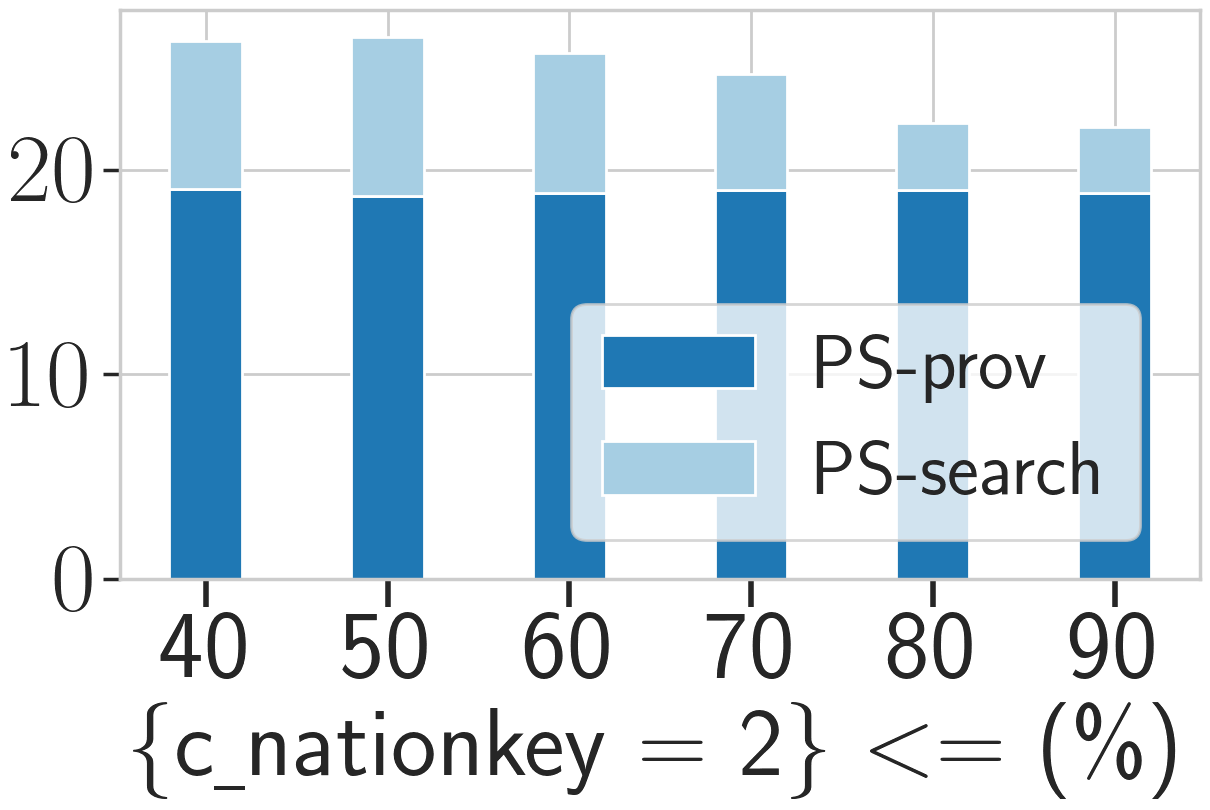
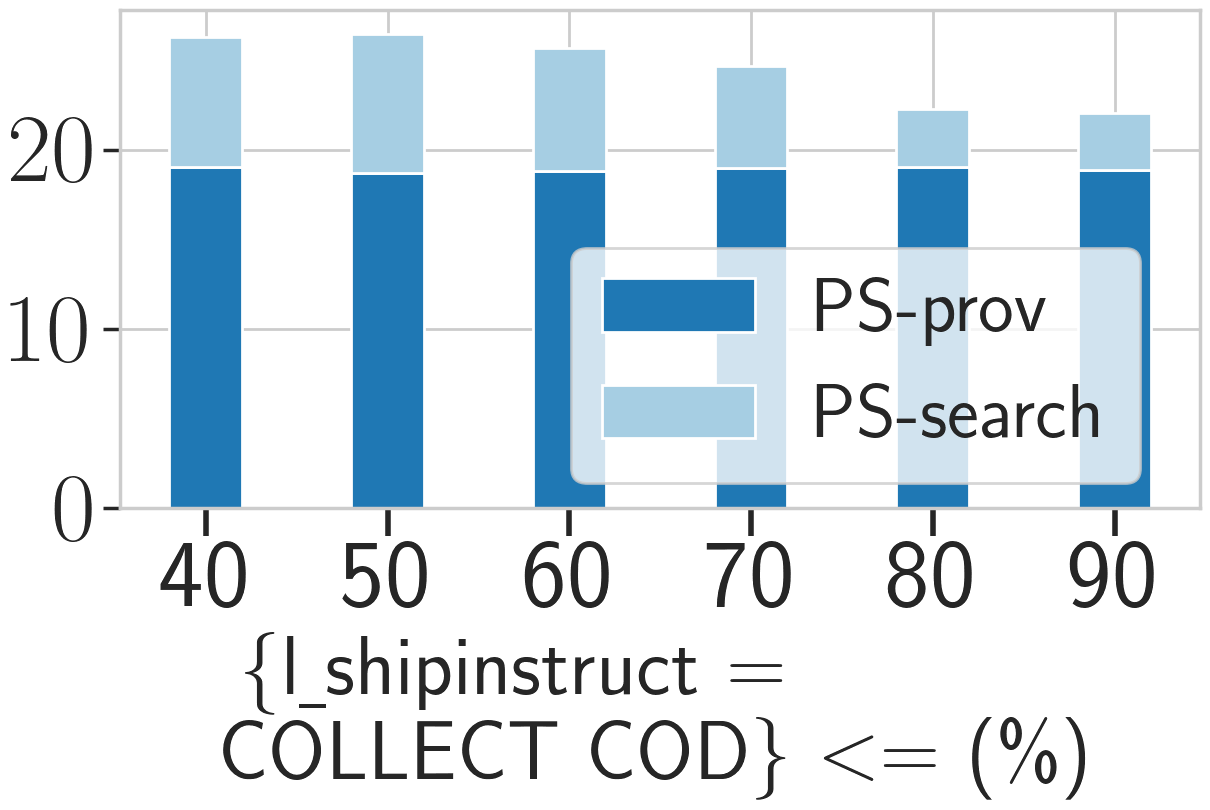
fix figure

diff --git a/Experiment/TPCH/1G/constraint_change/q3_contract52/fig.py b/Experiment/TPCH/1G/constraint_change/q3_contract52/fig.py
@@ -84,8 +84,9 @@ def run(query, size, constraint):
     plt.xticks(np.arange(0, 6, 1), x_list, rotation=0, fontsize=70)
     plt.yticks(fontsize=70, weight='bold')
 
-    plt.xlabel(r'\{c\underline{ }nationkey = 2\} $<=$ (\%)', fontsize=70, weight='bold')
-    plt.legend(loc='upper right', bbox_to_anchor=(0.98, 0.55), fontsize=55)
+    plt.xlabel(r'\{l\underline{ }shipinstruct = \\COLLECT COD\} $<=$ (\%)', fontsize=60, weight='bold')
+
+    plt.legend(loc='upper right', bbox_to_anchor=(0.98, 0.6), fontsize=55)
     # plt.legend(loc="best")
     plt.tight_layout()
     fig_path = "constraint_change_q" + str(query) + "_" + size + "_" + constraint + ".png"
